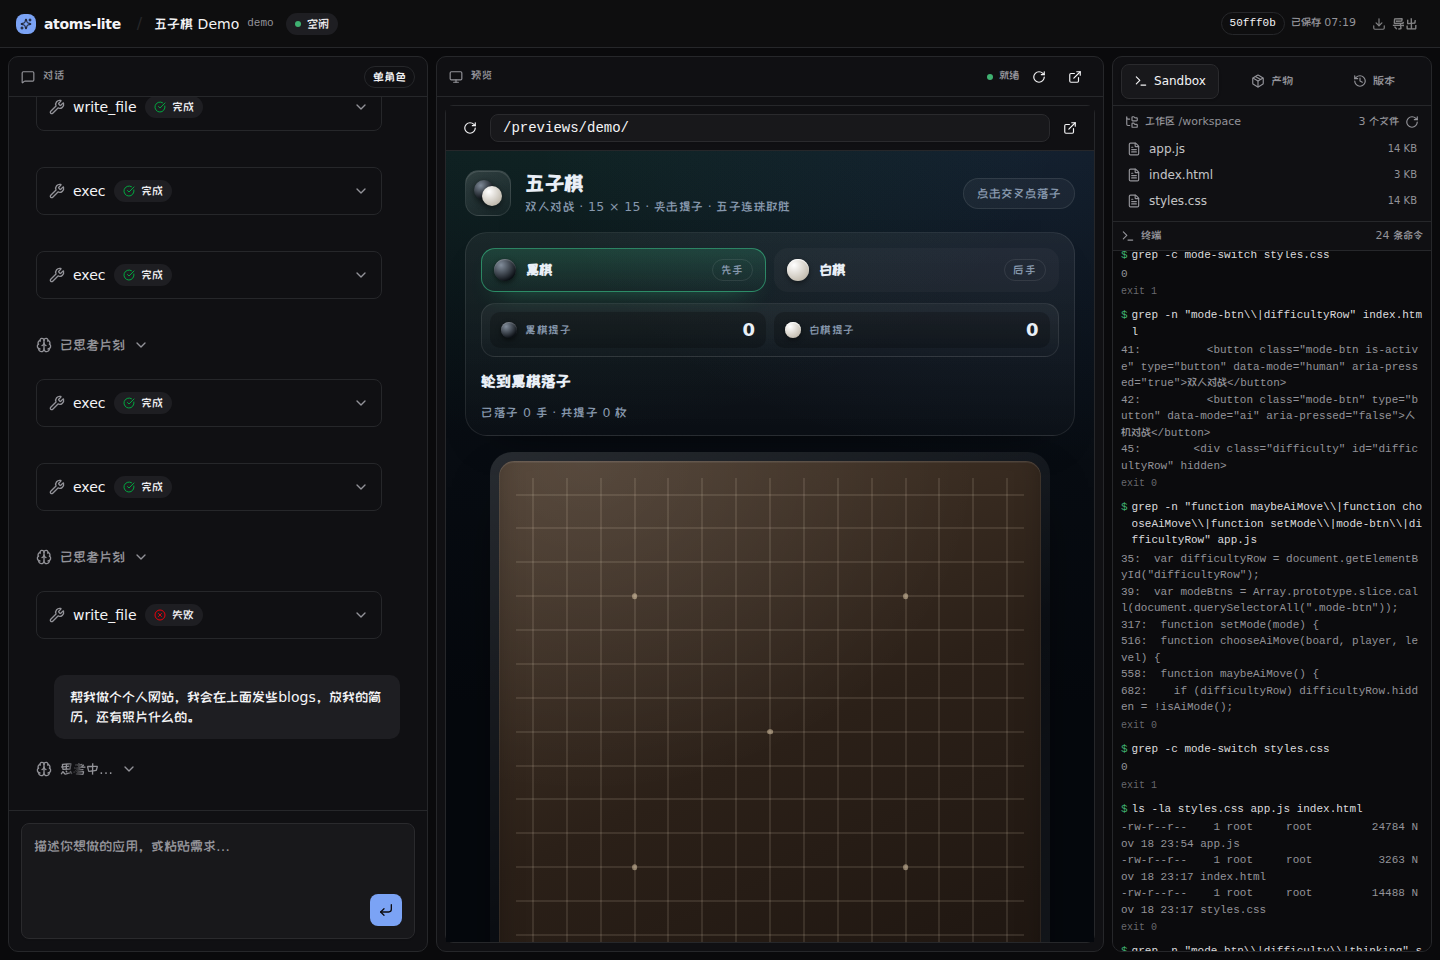
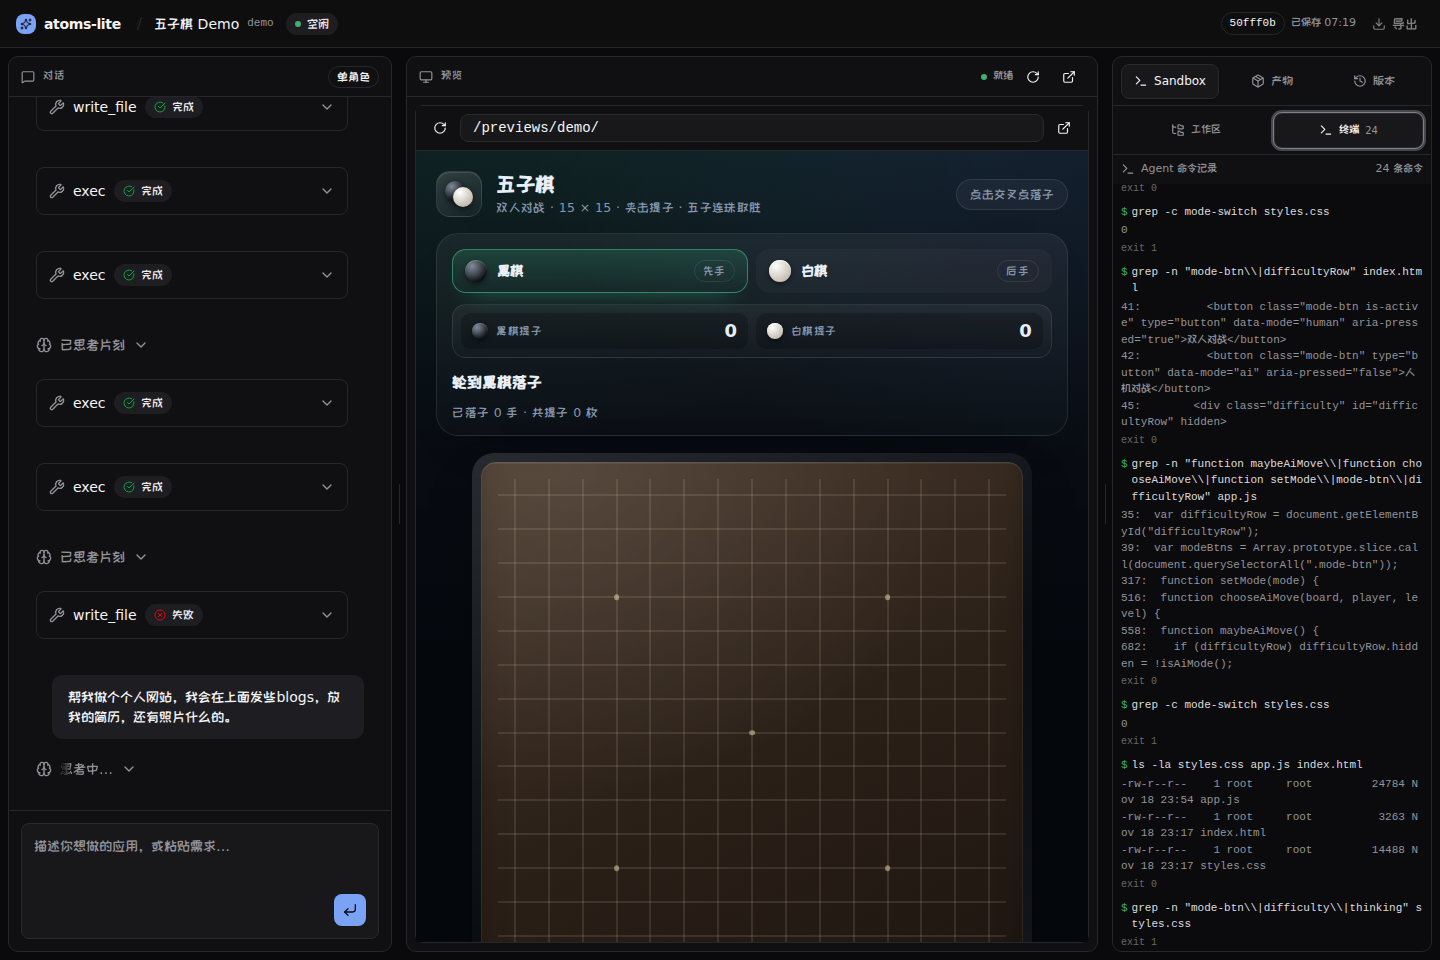
feat(web): split sandbox tabs and make panels resizable
Workspace and terminal are separate tabs. Chat and side panel widths can be dragged, reset by double-click, and persist in localStorage.

diff --git a/apps/web/components/workspace/workspace.tsx b/apps/web/components/workspace/workspace.tsx
@@ -1,6 +1,7 @@
 "use client";
 
 import { useCallback, useEffect, useRef, useState } from "react";
+import type { CSSProperties } from "react";
 import { useAgent } from "agents/react";
 import { useAgentChat } from "@cloudflare/ai-chat/react";
 import type { ToolUIPart } from "ai";
@@ -22,9 +23,52 @@ import { cn } from "@/lib/utils";
 
 type Tab = "chat" | "preview";
 
+const CHAT_WIDTH_KEY = "atoms:chat-width";
+const SIDE_WIDTH_KEY = "atoms:side-width";
+const DEFAULT_CHAT_WIDTH = 384;
+const DEFAULT_SIDE_WIDTH = 320;
+const MIN_CHAT_WIDTH = 300;
+const MAX_CHAT_WIDTH = 560;
+const MIN_SIDE_WIDTH = 260;
+const MAX_SIDE_WIDTH = 480;
+
+function clamp(value: number, min: number, max: number): number {
+  return Math.min(max, Math.max(min, Math.round(value)));
+}
+
+function storedWidth(
+  key: string,
+  fallback: number,
+  min: number,
+  max: number,
+): number {
+  if (typeof window === "undefined") return fallback;
+  const value = Number(window.localStorage.getItem(key));
+  return Number.isFinite(value) && value > 0 ? clamp(value, min, max) : fallback;
+}
+
 export function Workspace({ projectId }: { projectId: string }) {
   const [tab, setTab] = useState<Tab>("chat");
   const [sideOpen, setSideOpen] = useState(false);
+  const [chatWidth, setChatWidth] = useState(() =>
+    storedWidth(CHAT_WIDTH_KEY, DEFAULT_CHAT_WIDTH, MIN_CHAT_WIDTH, MAX_CHAT_WIDTH),
+  );
+  const [sideWidth, setSideWidth] = useState(() =>
+    storedWidth(SIDE_WIDTH_KEY, DEFAULT_SIDE_WIDTH, MIN_SIDE_WIDTH, MAX_SIDE_WIDTH),
+  );
+
+  useEffect(() => {
+    window.localStorage.setItem(CHAT_WIDTH_KEY, String(chatWidth));
+  }, [chatWidth]);
+
+  useEffect(() => {
+    window.localStorage.setItem(SIDE_WIDTH_KEY, String(sideWidth));
+  }, [sideWidth]);
+
+  const layoutStyle = {
+    "--chat-width": `${chatWidth}px`,
+    "--side-width": `${sideWidth}px`,
+  } as CSSProperties;
 
   // 项目元数据（名称/版本数）与当前项目专属的 Agent 会话
   const project = useProject(projectId);
@@ -169,10 +213,10 @@ export function Workspace({ projectId }: { projectId: string }) {
         versionNote={versionNote}
       />
 
-      <div className="flex min-h-0 flex-1 gap-2 p-2">
+      <div className="flex min-h-0 flex-1 gap-1 p-2" style={layoutStyle}>
         <ChatPanel
           className={cn(
-            "w-full shrink-0 md:flex md:w-chat lg:w-chat-lg xl:w-chat-xl",
+            "w-full shrink-0 md:flex md:w-(--chat-width)",
             tab === "chat" ? "flex" : "hidden md:flex"
           )}
           messages={messages}
@@ -181,6 +225,16 @@ export function Workspace({ projectId }: { projectId: string }) {
           onSubmitText={submitText}
           onStop={stop}
           onApproval={respondApproval}
+        />
+        <ResizeHandle
+          className="hidden md:flex"
+          label="调整对话宽度"
+          side="left"
+          width={chatWidth}
+          min={MIN_CHAT_WIDTH}
+          max={MAX_CHAT_WIDTH}
+          onWidth={setChatWidth}
+          onReset={() => setChatWidth(DEFAULT_CHAT_WIDTH)}
         />
         <PreviewPanel
           className={cn(
@@ -192,8 +246,18 @@ export function Workspace({ projectId }: { projectId: string }) {
           reloadKey={previewTick}
           onRefresh={refreshPreview}
         />
+        <ResizeHandle
+          className="hidden xl:flex"
+          label="调整侧栏宽度"
+          side="right"
+          width={sideWidth}
+          min={MIN_SIDE_WIDTH}
+          max={MAX_SIDE_WIDTH}
+          onWidth={setSideWidth}
+          onReset={() => setSideWidth(DEFAULT_SIDE_WIDTH)}
+        />
         <SidePanel
-          className="hidden w-side shrink-0 xl:flex"
+          className="hidden shrink-0 xl:flex xl:w-(--side-width)"
           versions={versions}
           files={files}
           messages={messages}
@@ -239,6 +303,77 @@ export function Workspace({ projectId }: { projectId: string }) {
           label="更多"
         />
       </nav>
+    </div>
+  );
+}
+
+function ResizeHandle({
+  className,
+  label,
+  side,
+  width,
+  min,
+  max,
+  onWidth,
+  onReset,
+}: {
+  className?: string;
+  label: string;
+  /** left：拖动右边缘调整左侧面板；right：拖动左边缘调整右侧面板 */
+  side: "left" | "right";
+  width: number;
+  min: number;
+  max: number;
+  onWidth: (width: number) => void;
+  onReset: () => void;
+}) {
+  const drag = useRef<{ startX: number; startWidth: number } | null>(null);
+
+  const start = (event: React.PointerEvent<HTMLDivElement>) => {
+    drag.current = { startX: event.clientX, startWidth: width };
+    event.currentTarget.setPointerCapture(event.pointerId);
+    document.body.style.cursor = "col-resize";
+    document.body.style.userSelect = "none";
+  };
+
+  const move = (event: React.PointerEvent<HTMLDivElement>) => {
+    if (!drag.current) return;
+    const delta = event.clientX - drag.current.startX;
+    const raw =
+      side === "left"
+        ? drag.current.startWidth + delta
+        : drag.current.startWidth - delta;
+    onWidth(clamp(raw, min, max));
+  };
+
+  const end = (event: React.PointerEvent<HTMLDivElement>) => {
+    if (!drag.current) return;
+    drag.current = null;
+    if (event.currentTarget.hasPointerCapture(event.pointerId)) {
+      event.currentTarget.releasePointerCapture(event.pointerId);
+    }
+    document.body.style.cursor = "";
+    document.body.style.userSelect = "";
+  };
+
+  return (
+    <div
+      role="separator"
+      aria-orientation="vertical"
+      aria-label={label}
+      title="拖动调整宽度，双击重置"
+      onPointerDown={start}
+      onPointerMove={move}
+      onPointerUp={end}
+      onPointerCancel={end}
+      onLostPointerCapture={end}
+      onDoubleClick={onReset}
+      className={cn(
+        "group relative hidden w-1.5 shrink-0 cursor-col-resize touch-none items-center justify-center",
+        className
+      )}
+    >
+      <span className="h-10 w-px rounded-full bg-border transition-colors group-hover:bg-primary" />
     </div>
   );
 }

diff --git a/apps/web/components/workspace/side-panel.tsx b/apps/web/components/workspace/side-panel.tsx
@@ -103,58 +103,87 @@ export function SidePanel({
           value="sandbox"
           className="mt-0 flex min-h-0 flex-1 flex-col"
         >
-          <div className="shrink-0 border-b border-border p-2">
-            <div className="mb-1.5 flex items-center justify-between px-1 text-2xs text-muted-foreground">
-              <span className="flex items-center gap-1.5">
-                <FolderTree className="size-3.5" />
-                工作区 /workspace
-              </span>
-              <span className="flex items-center gap-1.5">
-                <span>{files.data?.length ?? 0} 个文件</span>
-                <button
-                  type="button"
-                  onClick={files.refresh}
-                  aria-label="刷新文件列表"
-                  className="text-muted-foreground transition-colors hover:text-foreground"
-                >
-                  <RotateCw
-                    className={cn("size-3.5", files.loading && "animate-spin")}
-                  />
-                </button>
-              </span>
+          <Tabs
+            defaultValue="workspace"
+            className="flex min-h-0 flex-1 flex-col gap-0"
+          >
+            <div className="border-b border-border px-2 py-1.5">
+              <TabsList className="h-7 w-full justify-start gap-1 bg-transparent p-0">
+                <TabsTrigger value="workspace" className="gap-1.5 text-2xs">
+                  <FolderTree className="size-3.5" />
+                  工作区
+                </TabsTrigger>
+                <TabsTrigger value="terminal" className="gap-1.5 text-2xs">
+                  <Terminal className="size-3.5" />
+                  终端
+                  {terminal.length > 0 ? (
+                    <span className="text-3xs text-muted-foreground">
+                      {terminal.length}
+                    </span>
+                  ) : null}
+                </TabsTrigger>
+              </TabsList>
             </div>
 
-            <StateRow
-              loading={files.loading}
-              error={files.error}
-              onRetry={files.refresh}
-            />
+            <TabsContent
+              value="workspace"
+              className="mt-0 min-h-0 flex-1 overflow-auto p-2 scrollbar-thin"
+            >
+              <div className="mb-1.5 flex items-center justify-between px-1 text-2xs text-muted-foreground">
+                <span className="flex items-center gap-1.5">
+                  <FolderTree className="size-3.5" />
+                  /workspace
+                </span>
+                <span className="flex items-center gap-1.5">
+                  <span>{files.data?.length ?? 0} 个文件</span>
+                  <button
+                    type="button"
+                    onClick={files.refresh}
+                    aria-label="刷新文件列表"
+                    className="text-muted-foreground transition-colors hover:text-foreground"
+                  >
+                    <RotateCw
+                      className={cn("size-3.5", files.loading && "animate-spin")}
+                    />
+                  </button>
+                </span>
+              </div>
 
-            {files.data ? (
-              files.data.length === 0 ? (
-                <p className="px-1 py-2 text-2xs text-muted-foreground">
-                  空工作区：还没有任何文件。
-                </p>
-              ) : (
-                <ul className="max-h-56 space-y-0.5 overflow-auto scrollbar-thin">
-                  {files.data.map((entry) => (
-                    <FileRow key={entry.path} entry={entry} />
-                  ))}
-                </ul>
-              )
-            ) : null}
-          </div>
+              <StateRow
+                loading={files.loading}
+                error={files.error}
+                onRetry={files.refresh}
+              />
 
-          <div className="flex min-h-0 flex-1 flex-col">
-            <div className="flex shrink-0 items-center justify-between border-b border-border px-2 py-1.5 text-2xs text-muted-foreground">
-              <span className="flex items-center gap-1.5">
-                <Terminal className="size-3.5" />
-                终端
-              </span>
-              <span>{terminal.length} 条命令</span>
-            </div>
-            <TerminalLog entries={terminal} />
-          </div>
+              {files.data ? (
+                files.data.length === 0 ? (
+                  <p className="px-1 py-2 text-2xs text-muted-foreground">
+                    空工作区：还没有任何文件。
+                  </p>
+                ) : (
+                  <ul className="space-y-0.5">
+                    {files.data.map((entry) => (
+                      <FileRow key={entry.path} entry={entry} />
+                    ))}
+                  </ul>
+                )
+              ) : null}
+            </TabsContent>
+
+            <TabsContent
+              value="terminal"
+              className="mt-0 flex min-h-0 flex-1 flex-col"
+            >
+              <div className="flex shrink-0 items-center justify-between px-2 py-1.5 text-2xs text-muted-foreground">
+                <span className="flex items-center gap-1.5">
+                  <Terminal className="size-3.5" />
+                  Agent 命令记录
+                </span>
+                <span>{terminal.length} 条命令</span>
+              </div>
+              <TerminalLog entries={terminal} />
+            </TabsContent>
+          </Tabs>
         </TabsContent>
 
         <TabsContent

diff --git a/docs/implementation.md b/docs/implementation.md
@@ -54,9 +54,10 @@
 
 - 三栏：对话、预览、Sandbox/产物/版本（窄屏切换）
 - 工具调用卡默认折叠，只显示工具名与状态；点击展开参数与结果
-- Sandbox 面板同时展示两段内容：
-  - **工作区文件树**（`/workspace`，路径与大小）
-  - **终端记录**：从消息里的 `exec` 工具调用还原 `$ 命令`、stdout/stderr 与 exit code
+- Sandbox 面板内分两个 tab：
+  - **工作区**：`/workspace` 文件树、路径与大小
+  - **终端**：从消息里的 `exec` 工具调用还原 `$ 命令`、stdout/stderr 与 exit code
+- 对话栏与右侧栏支持拖动调整宽度；双击把手恢复默认值，宽度写入 localStorage
 - Agent 实例名 = 项目 ID，因此对话历史、工具调用、容器、版本都按项目隔离
 - 进入时读取 `?prompt=`，待 Agent 连接就绪且当前空闲后自动发送；
   发送前用 `history.replaceState` 清掉 query，刷新不会重复发送
@@ -114,8 +115,10 @@
 ### 交互细节（生产）
 
 - **工具卡默认折叠**：历史消息中的 `data-tool` 全部为 `closed`；点击标题可展开。
-- **Sandbox 双区块**：五子棋项目显示工作区 3 个文件 + 终端 24 条命令
+- **Sandbox 两个 tab**：工作区显示 3 个文件；终端显示 24 条命令
   （`$ node --check app.js`、`$ grep …`、`$ ls -la …` 及 exit code）。
+- **拖动调整宽度**：对话栏 384 → 464px，右侧栏 320 → 380px；
+  刷新后仍为 464 / 380（localStorage 记忆）。
 - **重命名**：首页项目卡菜单 → 重命名 → 保存，列表立即显示新名称。
 - **删除**：首页项目卡菜单 → 删除 → 二次确认；卡片消失，`GET /api/projects/:id` 返回 404。
 
@@ -142,9 +145,9 @@
 |---|---|
 | ![首页](assets/v1-dashboard.png) | ![工作区](assets/v1-workspace-todo.png) |
 
-工作区右侧 Sandbox 的文件树 + 终端记录：
+工作区右侧 Sandbox 的「终端」tab（另一个 tab 是工作区文件树）：
 
-![Sandbox 文件与终端](assets/v1-workspace-terminal.png)
+![Sandbox 终端](assets/v1-workspace-terminal.png)
 
 五子棋工作区见 `assets/v1-workspace.png`。
 

diff --git a/README.md b/README.md
@@ -11,7 +11,8 @@
 - `/` 首页工作台（需求输入、示例、项目概况、最近项目）
 - `/sessions/:projectId` 会话工作区（对话 / 预览 / Sandbox / 版本）
 - 每个项目有独立容器、文件、git 历史、版本和 Agent 会话
-- 首页项目卡支持重命名、删除；Sandbox 面板同时显示文件树与终端命令记录
+- 首页项目卡支持重命名、删除；Sandbox 面板分「工作区 / 终端」两个 tab
+- 对话栏与右侧栏可拖动调整宽度，刷新后保持
 
 - 实现记录：`docs/implementation.md`
 - 系统架构：`docs/architecture/system-architecture.md`
@@ -91,7 +92,7 @@ pnpm build
 - [x] **单角色生成闭环**：需求 → 工具写文件 → 预览 → 版本
 - [x] **首页 + 会话页**：首页提交需求后进入工作区并自动发送
 - [x] **多项目**：每次需求创建独立项目，项目之间互不影响
-- [x] 项目重命名 / 删除；Sandbox 文件树 + 终端记录
+- [x] 项目重命名 / 删除；Sandbox 工作区 / 终端 tab；面板宽度可调
 - [x] 生产部署（`atoms-lite.fengyj.me`，静态资源 + Worker + Container）
 
 ## 未实现（按计划推进）
